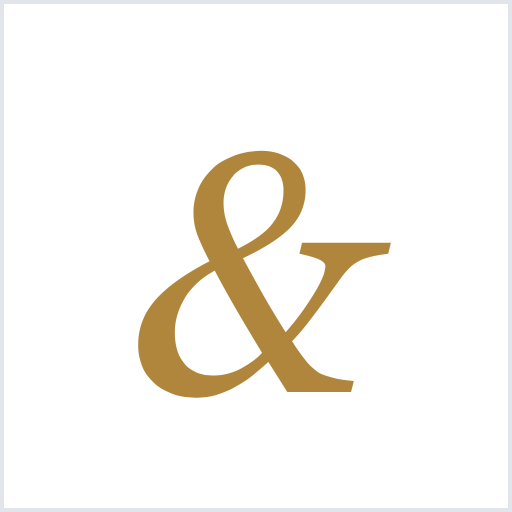
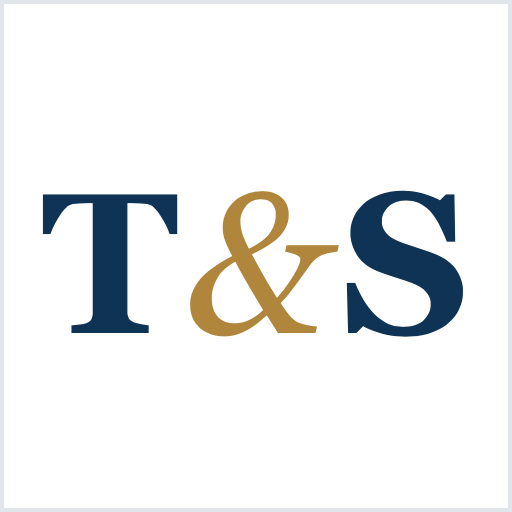
Add files via upload

Changed region(s): [[0.0625, 0.2812, 0.9062, 0.7812]]

diff --git a/legal.html b/legal.html
@@ -5,6 +5,13 @@
 <meta name="viewport" content="width=device-width,initial-scale=1" />
 <title>Avisos Legais — Tonello & Siqueira</title>
 <meta name="description" content="Avisos legais da Tonello & Siqueira: privacidade, confidencialidade e termos de uso." />
+<link rel="canonical" href="https://www.tonelloesiqueira.com.br/legal.html" />
+<meta property="og:type" content="website" />
+<meta property="og:locale" content="pt_BR" />
+<meta property="og:title" content="Avisos Legais — Tonello & Siqueira" />
+<meta property="og:description" content="Privacidade, confidencialidade e termos de uso da Tonello & Siqueira." />
+<meta property="og:url" content="https://www.tonelloesiqueira.com.br/legal.html" />
+<meta property="og:image" content="https://www.tonelloesiqueira.com.br/og-image.png" />
 <link rel="icon" type="image/png" href="avatar.png" />
 <link rel="apple-touch-icon" href="avatar.png" />
 <style>
@@ -27,6 +34,7 @@
   }
   *, *::before, *::after { box-sizing: border-box; }
   html, body { margin: 0; padding: 0; }
+  html { scroll-behavior: smooth; }
   body { font-family: var(--serif); color: var(--ink); background: var(--paper); -webkit-font-smoothing: antialiased; line-height: 1.6; }
   a { color: inherit; text-decoration: none; }
   .container { max-width: var(--container); margin: 0 auto; padding: 0 var(--pad); }